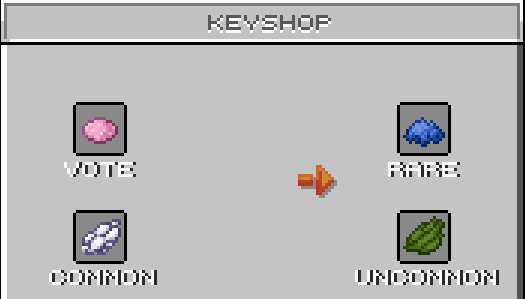
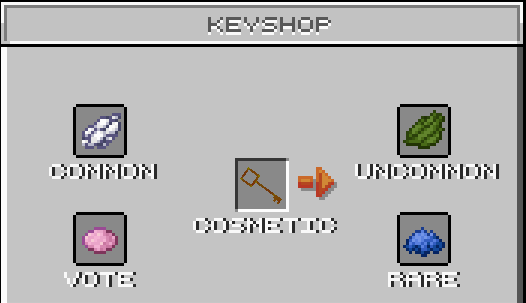
30: Update Stuff

diff --git a/SUMMARY.md b/SUMMARY.md
@@ -10,6 +10,9 @@
   * [✉ Voting](general/voting.md)
   * [🚧 Support](general/support.md)
   * [❓ FAQ](general/faq.md)
+* [⚙ System](system/README.md)
+  * [💸 Daily Rewards](system/daily-rewards.md)
+  * [⏳ Job System](system/job-system.md)
 * [🌏 Global](global/README.md)
   * [📜 Commands](global/commands.md)
   * [🌈 Name Color](global/name-color.md)
@@ -20,7 +23,6 @@
   * [📜 Commands](adventures/commands.md)
   * [⛏ Guild](adventures/guild.md)
 * [🌵 Islands](islands/README.md)
+  * [📜 Commands](islands/commands.md)
   * [💰 Daily Rewards](islands/daily-rewards.md)
-* [⚙ System](system/README.md)
-  * [💸 Daily Rewards](system/daily-rewards.md)
-  * [⏳ Job System](system/job-system.md)
+  * [⚔ Clan](islands/clan.md)

diff --git a/general/keyshop.md b/general/keyshop.md
@@ -10,9 +10,15 @@ To access the Keyshop, use the command `/keyshop`. This command will open a menu
 
 
 
-<figure><img src="../.gitbook/assets/keyshop1.png" alt=""><figcaption></figcaption></figure>
+<div>
 
 <figure><img src="../.gitbook/assets/keyshop2.png" alt=""><figcaption></figcaption></figure>
+
+ 
+
+<figure><img src="../.gitbook/assets/keyshop1.png" alt=""><figcaption></figcaption></figure>
+
+</div>
 
 ### Crates and Pricing
 
@@ -35,6 +41,11 @@ Here’s a list of the available crates and the cost in rubies for each key:
 8. **Glory Crate**
    * **Special Crate**
    * **Cost:** 520 rubies
+9. **Cosmetic Crate**
+
+
+
+
 
 ### How to Buy Keys
 

diff --git a/citybuild/README.md b/citybuild/README.md
@@ -1,2 +1,3 @@
 # 🧡 Citybuild
 
+Currently discontinued...

diff --git a/islands/commands.md b/islands/commands.md
@@ -1,0 +1,2 @@
+# 📜 Commands
+

diff --git a/islands/clan.md b/islands/clan.md
@@ -1,0 +1,2 @@
+# ⚔ Clan
+
